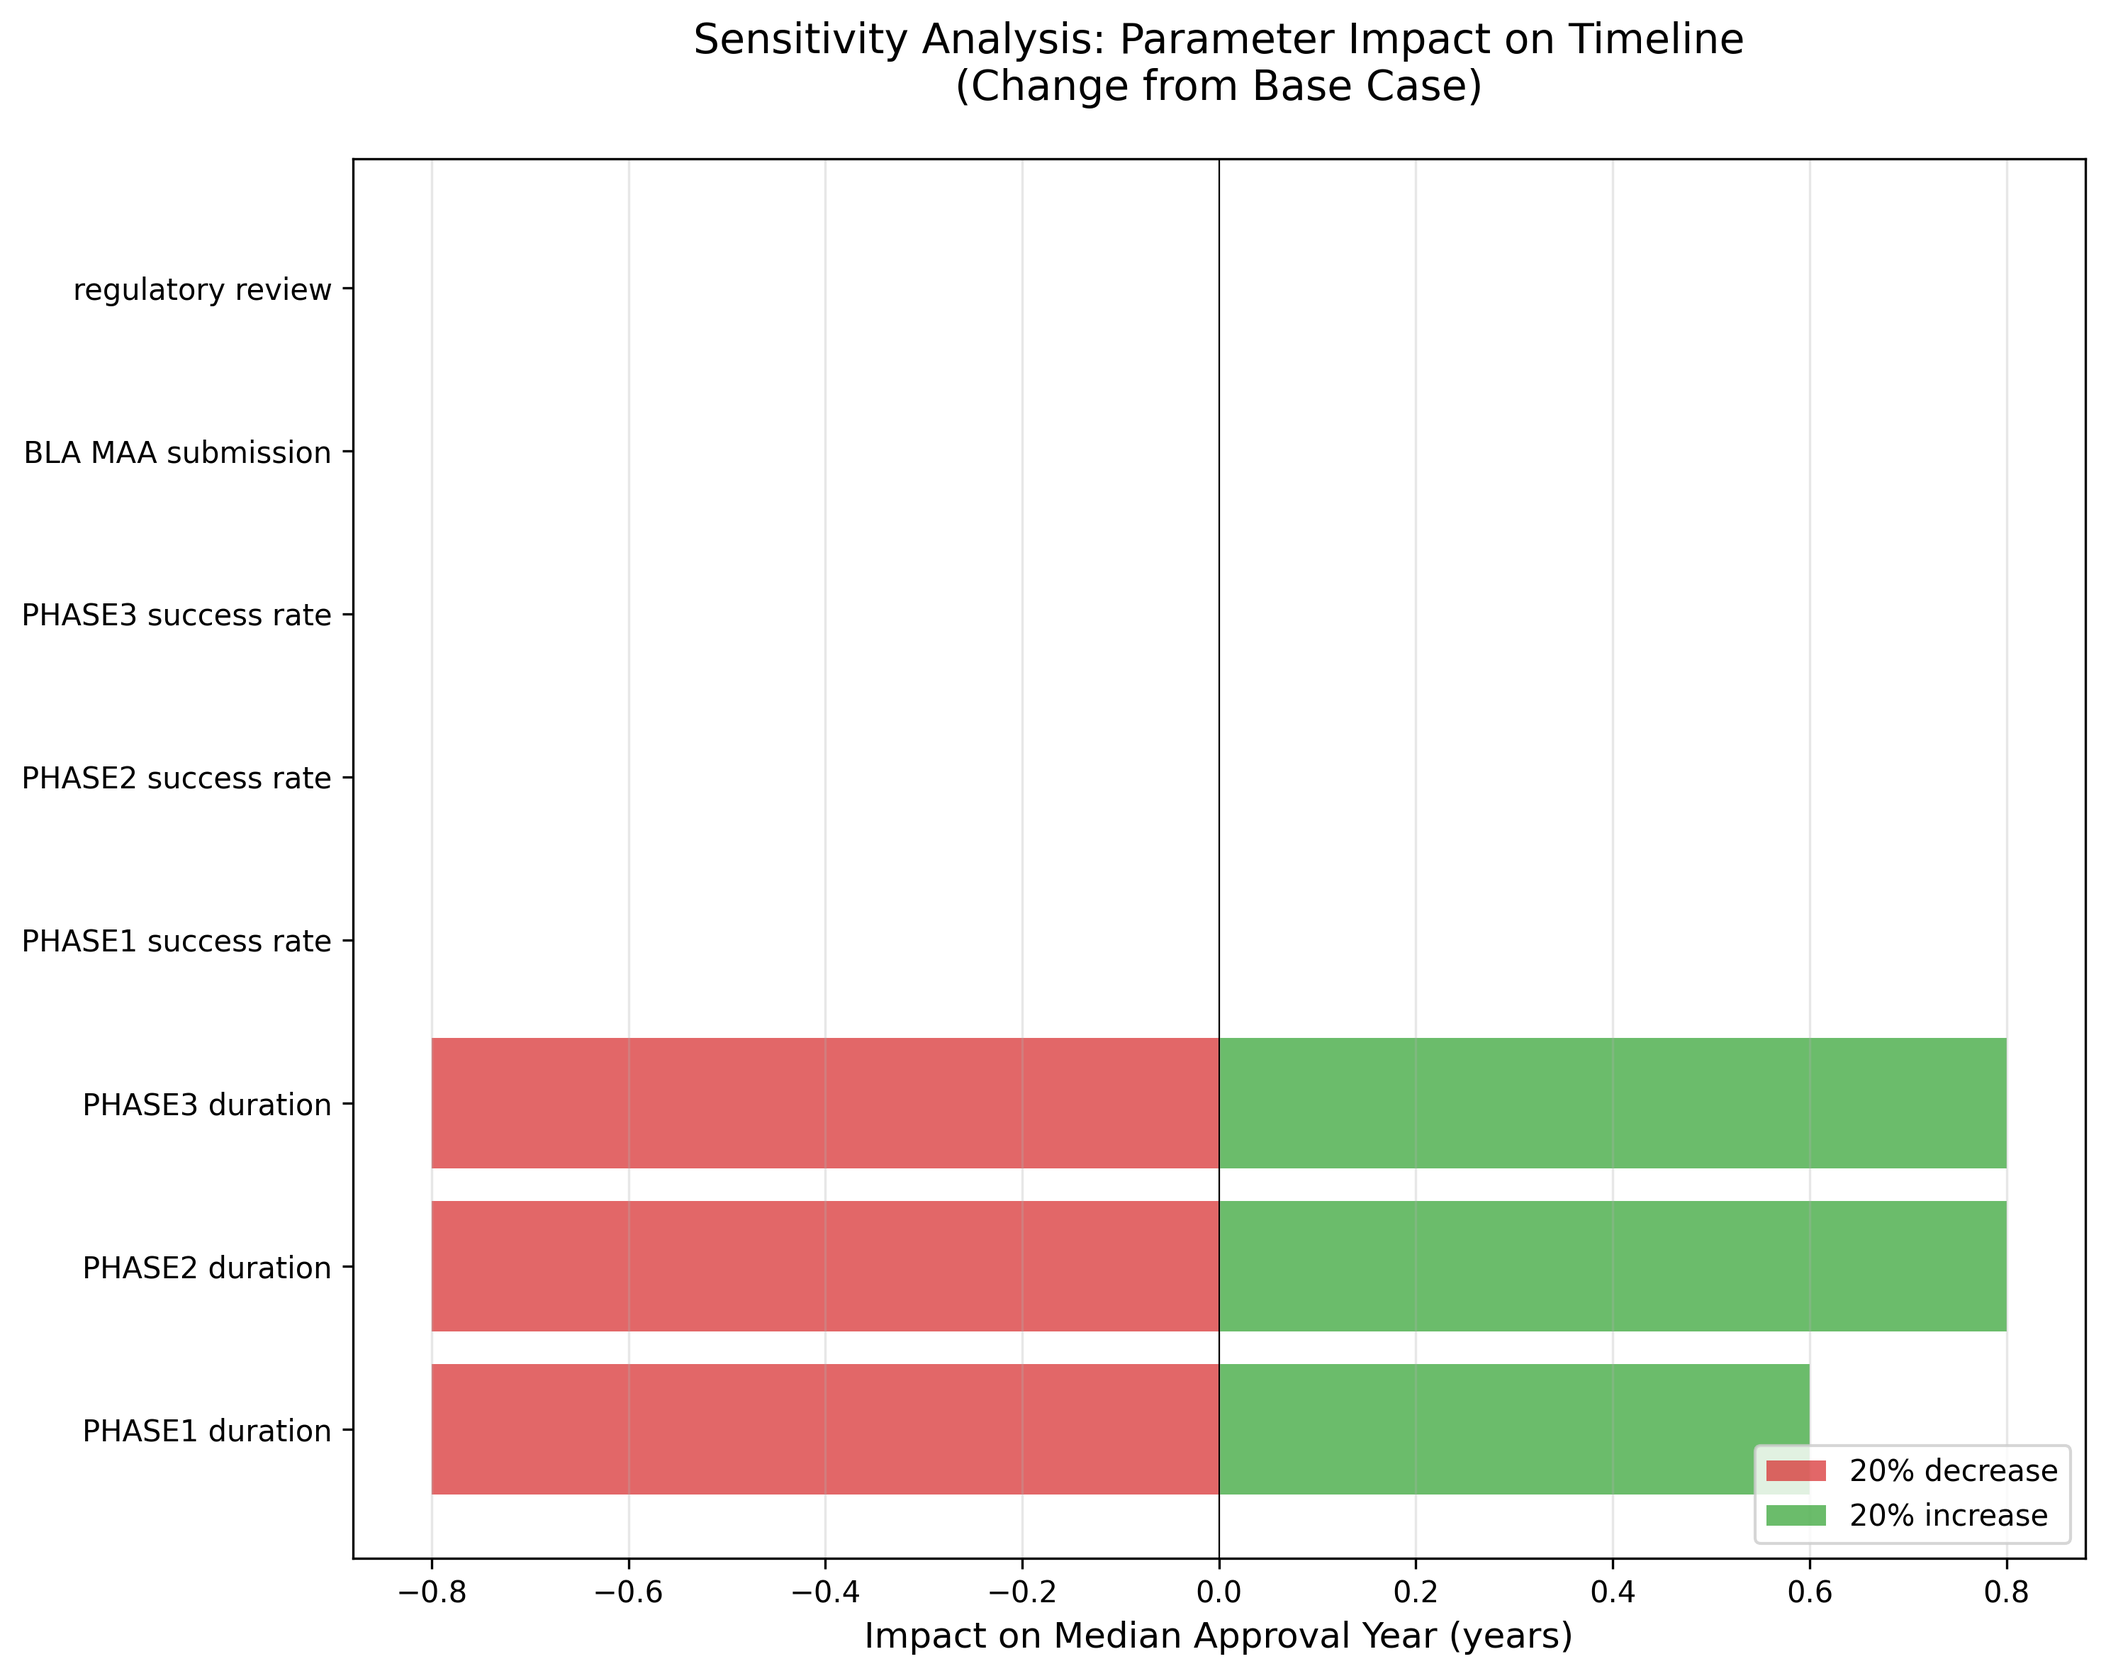
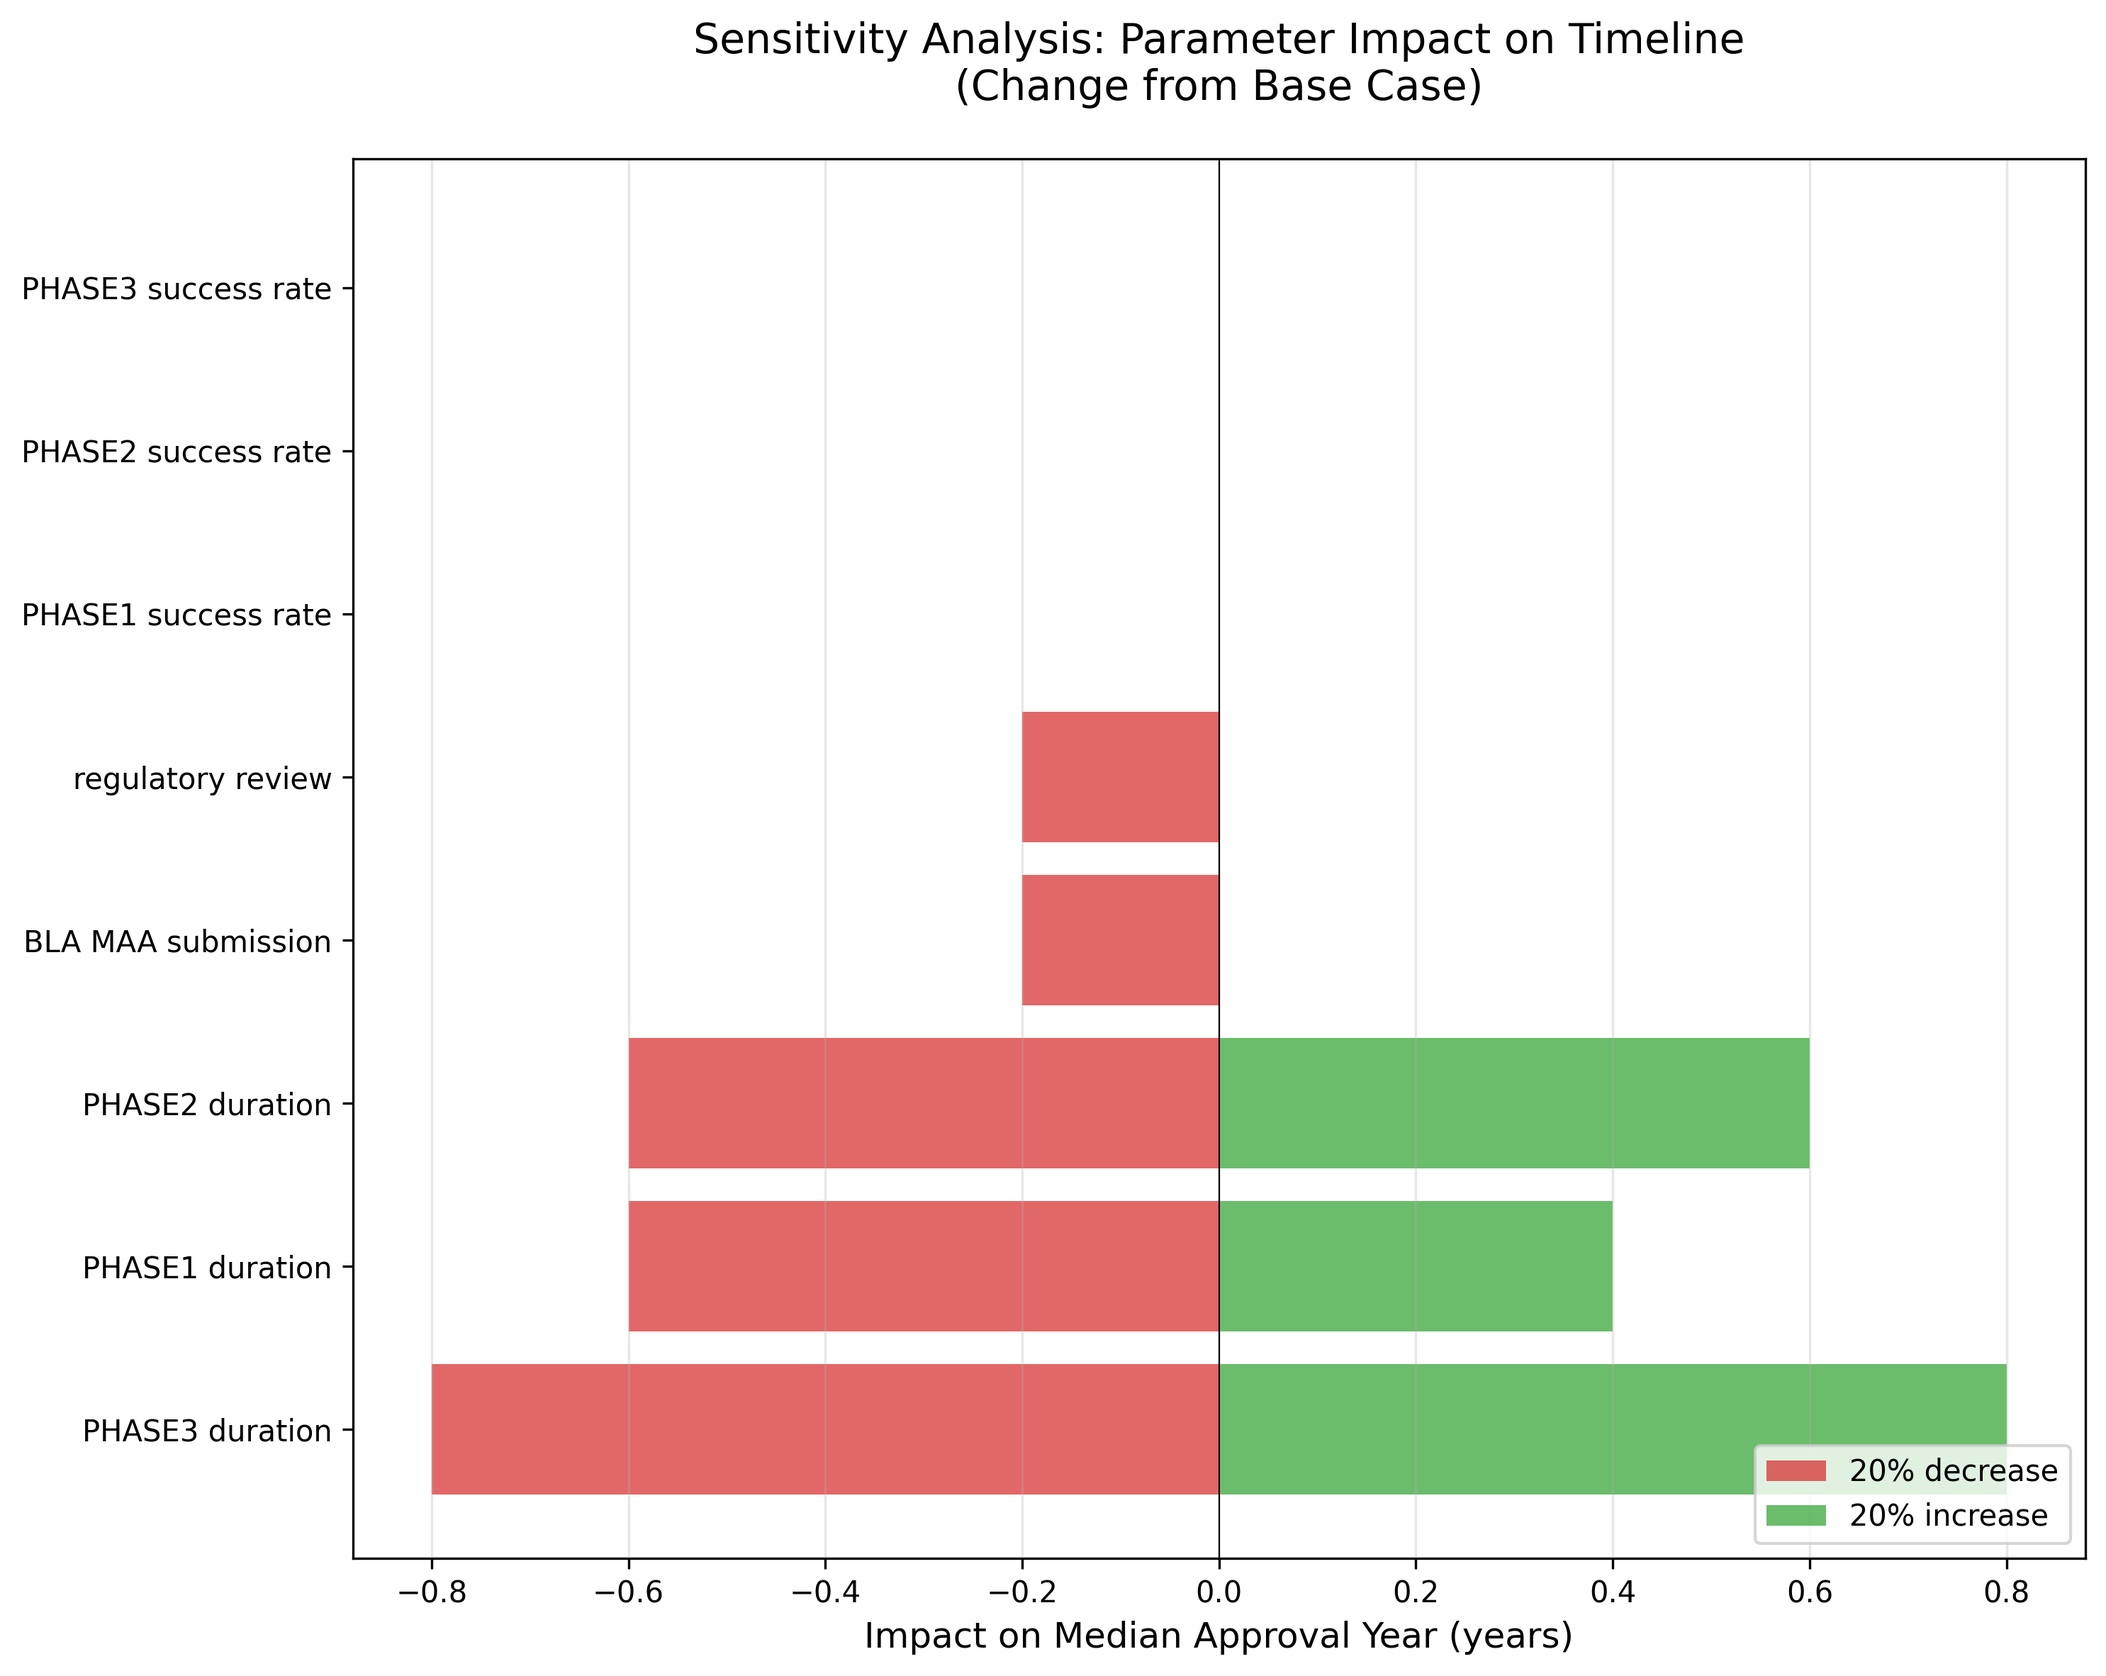
deploy: 7886f1104f4f142e22fffb07d784f7dc8c92304e

diff --git a/public/report.html b/public/report.html
@@ -189,7 +189,7 @@
         </nav>
         
         <h1>網膜色素変性症（RP）治療開発ロードマップ</h1>
-<p>生成日時: 2026年02月27日 03:41</p>
+<p>生成日時: 2026年02月27日 04:11</p>
 <h2>エグゼクティブサマリー</h2>
 <p>本レポートは、網膜色素変性症（Retinitis Pigmentosa, RP）の治療法開発状況を定量的に分析し、効果的な治療法がいつ頃利用可能になるかを予測したものです。</p>
 <h3>主要な発見（米国FDA承認基準）</h3>
@@ -273,6 +273,16 @@
 </thead>
 <tbody>
 <tr>
+<td>NCT04945772</td>
+<td data-label="治療法名">Efficacy and Safety of MCO-010 Optogenet...</td>
+<td data-label="フェーズ">PHASE2</td>
+<td data-label="スポンサー">Nanoscope Therapeutics Inc.</td>
+<td data-label="成功率">100.0%</td>
+<td data-label="FDA承認予測（中央値）">2026年</td>
+<td data-label="日本承認予測（中央値）">2029年</td>
+<td data-label="90%信頼区間（FDA）">[2026, 2027]</td>
+</tr>
+<tr>
 <td>NCT05203939</td>
 <td data-label="治療法名">Study to Assess the Safety and Efficacy ...</td>
 <td data-label="フェーズ">PHASE1, PHASE2</td>
@@ -293,11 +303,21 @@
 <td data-label="90%信頼区間（FDA）">[2027, 2027]</td>
 </tr>
 <tr>
+<td>NCT07174726</td>
+<td data-label="治療法名">A Phase 2 Open-label Study to Evaluate t...</td>
+<td data-label="フェーズ">PHASE2</td>
+<td data-label="スポンサー">Beacon Therapeutics</td>
+<td data-label="成功率">100.0%</td>
+<td data-label="FDA承認予測（中央値）">2030年</td>
+<td data-label="日本承認予測（中央値）">2035年</td>
+<td data-label="90%信頼区間（FDA）">[2029, 2030]</td>
+</tr>
+<tr>
 <td>NCT00999609</td>
 <td data-label="治療法名">Safety and Efficacy Study in Subjects Wi...</td>
 <td data-label="フェーズ">PHASE3</td>
 <td data-label="スポンサー">Spark Therapeutics, Inc.</td>
-<td data-label="成功率">72.4%</td>
+<td data-label="成功率">72.3%</td>
 <td data-label="FDA承認予測（中央値）">2030年</td>
 <td data-label="日本承認予測（中央値）">2035年</td>
 <td data-label="90%信頼区間（FDA）">[2029, 2031]</td>
@@ -313,41 +333,21 @@
 <td data-label="90%信頼区間（FDA）">[2029, 2030]</td>
 </tr>
 <tr>
-<td>NCT06275620</td>
-<td data-label="治療法名">A Study Comparing Two Doses of AGTC-501 ...</td>
-<td data-label="フェーズ">PHASE2</td>
-<td data-label="スポンサー">Beacon Therapeutics</td>
-<td data-label="成功率">100.0%</td>
-<td data-label="FDA承認予測（中央値）">2030年</td>
-<td data-label="日本承認予測（中央値）">2035年</td>
-<td data-label="90%信頼区間（FDA）">[2029, 2030]</td>
-</tr>
-<tr>
-<td>NCT06333249</td>
-<td data-label="治療法名">A Study Comparing Two Doses of AGTC-501 ...</td>
-<td data-label="フェーズ">PHASE2</td>
-<td data-label="スポンサー">Beacon Therapeutics</td>
-<td data-label="成功率">100.0%</td>
-<td data-label="FDA承認予測（中央値）">2030年</td>
-<td data-label="日本承認予測（中央値）">2035年</td>
-<td data-label="90%信頼区間（FDA）">[2029, 2030]</td>
+<td>NCT05537220</td>
+<td data-label="治療法名">Oral N-acetylcysteine for Retinitis Pigm...</td>
+<td data-label="フェーズ">PHASE3</td>
+<td data-label="スポンサー">Johns Hopkins University</td>
+<td data-label="成功率">71.3%</td>
+<td data-label="FDA承認予測（中央値）">2033年</td>
+<td data-label="日本承認予測（中央値）">2038年</td>
+<td data-label="90%信頼区間（FDA）">[2032, 2034]</td>
 </tr>
 <tr>
 <td>NCT07290530</td>
 <td data-label="治療法名">24-Month Trial of NPI-001 for the Preser...</td>
 <td data-label="フェーズ">PHASE3</td>
 <td data-label="スポンサー">Nacuity Pharmaceuticals, Inc.</td>
-<td data-label="成功率">71.6%</td>
-<td data-label="FDA承認予測（中央値）">2033年</td>
-<td data-label="日本承認予測（中央値）">2038年</td>
-<td data-label="90%信頼区間（FDA）">[2032, 2034]</td>
-</tr>
-<tr>
-<td>NCT05537220</td>
-<td data-label="治療法名">Oral N-acetylcysteine for Retinitis Pigm...</td>
-<td data-label="フェーズ">PHASE3</td>
-<td data-label="スポンサー">Johns Hopkins University</td>
-<td data-label="成功率">71.9%</td>
+<td data-label="成功率">71.8%</td>
 <td data-label="FDA承認予測（中央値）">2033年</td>
 <td data-label="日本承認予測（中央値）">2038年</td>
 <td data-label="90%信頼区間（FDA）">[2032, 2034]</td>
@@ -357,7 +357,7 @@
 <td data-label="治療法名">A Multicenter, Randomized, Double-Blind,...</td>
 <td data-label="フェーズ">PHASE3</td>
 <td data-label="スポンサー">Zhongshan Ophthalmic Center, Sun Yat-sen University</td>
-<td data-label="成功率">71.7%</td>
+<td data-label="成功率">71.9%</td>
 <td data-label="FDA承認予測（中央値）">2033年</td>
 <td data-label="日本承認予測（中央値）">2038年</td>
 <td data-label="90%信頼区間（FDA）">[2032, 2034]</td>
@@ -367,7 +367,7 @@
 <td data-label="治療法名">Long-term Safety and Efficacy Follow-up ...</td>
 <td data-label="フェーズ">PHASE3</td>
 <td data-label="スポンサー">NightstaRx Ltd, a Biogen Company</td>
-<td data-label="成功率">71.2%</td>
+<td data-label="成功率">72.3%</td>
 <td data-label="FDA承認予測（中央値）">2033年</td>
 <td data-label="日本承認予測（中央値）">2038年</td>
 <td data-label="90%信頼区間（FDA）">[2032, 2034]</td>
@@ -388,6 +388,13 @@
 </thead>
 <tbody>
 <tr>
+<td>NCT04945772</td>
+<td data-label="FDA承認予測">2026年</td>
+<td data-label="日本承認予測（中央値）"><strong>2029年</strong></td>
+<td data-label="日本承認90%信頼区間">[2028, 2029]</td>
+<td data-label="遅延期間（中央値）">+2.1年</td>
+</tr>
+<tr>
 <td>NCT05203939</td>
 <td data-label="FDA承認予測">2027年</td>
 <td data-label="日本承認予測（中央値）"><strong>2032年</strong></td>
@@ -399,6 +406,13 @@
 <td data-label="FDA承認予測">2027年</td>
 <td data-label="日本承認予測（中央値）"><strong>2032年</strong></td>
 <td data-label="日本承認90%信頼区間">[2031, 2033]</td>
+<td data-label="遅延期間（中央値）">+5.0年</td>
+</tr>
+<tr>
+<td>NCT07174726</td>
+<td data-label="FDA承認予測">2030年</td>
+<td data-label="日本承認予測（中央値）"><strong>2035年</strong></td>
+<td data-label="日本承認90%信頼区間">[2034, 2036]</td>
 <td data-label="遅延期間（中央値）">+5.0年</td>
 </tr>
 <tr>
@@ -416,28 +430,14 @@
 <td data-label="遅延期間（中央値）">+5.0年</td>
 </tr>
 <tr>
-<td>NCT06275620</td>
-<td data-label="FDA承認予測">2030年</td>
-<td data-label="日本承認予測（中央値）"><strong>2035年</strong></td>
-<td data-label="日本承認90%信頼区間">[2033, 2036]</td>
-<td data-label="遅延期間（中央値）">+5.0年</td>
-</tr>
-<tr>
-<td>NCT06333249</td>
-<td data-label="FDA承認予測">2030年</td>
-<td data-label="日本承認予測（中央値）"><strong>2035年</strong></td>
-<td data-label="日本承認90%信頼区間">[2034, 2036]</td>
-<td data-label="遅延期間（中央値）">+5.0年</td>
-</tr>
-<tr>
-<td>NCT07290530</td>
+<td>NCT05537220</td>
 <td data-label="FDA承認予測">2033年</td>
 <td data-label="日本承認予測（中央値）"><strong>2038年</strong></td>
 <td data-label="日本承認90%信頼区間">[2036, 2039]</td>
 <td data-label="遅延期間（中央値）">+5.0年</td>
 </tr>
 <tr>
-<td>NCT05537220</td>
+<td>NCT07290530</td>
 <td data-label="FDA承認予測">2033年</td>
 <td data-label="日本承認予測（中央値）"><strong>2038年</strong></td>
 <td data-label="日本承認90%信頼区間">[2036, 2039]</td>
@@ -484,9 +484,9 @@
 <p><img alt="トルネード図" src="images/tornado.png"/></p>
 <h3>主要な影響要因</h3>
 <ul>
-<li><strong>PHASE2 duration</strong> (increase 20%): +0.8年の影響</li>
 <li><strong>PHASE3 duration</strong> (increase 20%): +0.8年の影響</li>
-<li><strong>PHASE1 duration</strong> (increase 20%): +0.6年の影響</li>
+<li><strong>PHASE2 duration</strong> (increase 20%): +0.6年の影響</li>
+<li><strong>PHASE1 duration</strong> (increase 20%): +0.4年の影響</li>
 </ul>
 <h2>4. 予測の可視化</h2>
 <h3>累積承認確率</h3>

diff --git a/content/main/index.md b/content/main/index.md
@@ -1,6 +1,6 @@
 # 網膜色素変性症（RP）治療開発ロードマップ
 
-生成日時: 2026年02月27日 03:41
+生成日時: 2026年02月27日 04:11
 
 ## エグゼクティブサマリー
 
@@ -54,16 +54,16 @@
 
 | 試験ID | 治療法名 | フェーズ | スポンサー | 成功率 | FDA承認予測（中央値） | 日本承認予測（中央値） | 90%信頼区間（FDA） |
 |--------|----------|----------|------------|--------|---------------------|---------------------|------------------|
+| NCT04945772 | Efficacy and Safety of MCO-010 Optogenet... | PHASE2 | Nanoscope Therapeutics Inc. | 100.0% | 2026年 | 2029年 | [2026, 2027] |
 | NCT05203939 | Study to Assess the Safety and Efficacy ... | PHASE1, PHASE2 | Ocugen | 100.0% | 2027年 | 2032年 | [2027, 2027] |
 | NCT06388200 | A Phase 3 Study Of OCU400 Gene Therapy f... | PHASE3 | Ocugen | 100.0% | 2027年 | 2032年 | [2027, 2027] |
-| NCT00999609 | Safety and Efficacy Study in Subjects Wi... | PHASE3 | Spark Therapeutics, Inc. | 72.4% | 2030年 | 2035年 | [2029, 2031] |
+| NCT07174726 | A Phase 2 Open-label Study to Evaluate t... | PHASE2 | Beacon Therapeutics | 100.0% | 2030年 | 2035年 | [2029, 2030] |
+| NCT00999609 | Safety and Efficacy Study in Subjects Wi... | PHASE3 | Spark Therapeutics, Inc. | 72.3% | 2030年 | 2035年 | [2029, 2031] |
 | NCT04850118 | A Clinical Trial Evaluating the Safety a... | PHASE2, PHASE3 | Beacon Therapeutics | 100.0% | 2030年 | 2035年 | [2029, 2030] |
-| NCT06275620 | A Study Comparing Two Doses of AGTC-501 ... | PHASE2 | Beacon Therapeutics | 100.0% | 2030年 | 2035年 | [2029, 2030] |
-| NCT06333249 | A Study Comparing Two Doses of AGTC-501 ... | PHASE2 | Beacon Therapeutics | 100.0% | 2030年 | 2035年 | [2029, 2030] |
-| NCT07290530 | 24-Month Trial of NPI-001 for the Preser... | PHASE3 | Nacuity Pharmaceuticals, Inc. | 71.6% | 2033年 | 2038年 | [2032, 2034] |
-| NCT05537220 | Oral N-acetylcysteine for Retinitis Pigm... | PHASE3 | Johns Hopkins University | 71.9% | 2033年 | 2038年 | [2032, 2034] |
-| NCT07082855 | A Multicenter, Randomized, Double-Blind,... | PHASE3 | Zhongshan Ophthalmic Center, Sun Yat-sen University | 71.7% | 2033年 | 2038年 | [2032, 2034] |
-| NCT03584165 | Long-term Safety and Efficacy Follow-up ... | PHASE3 | NightstaRx Ltd, a Biogen Company | 71.2% | 2033年 | 2038年 | [2032, 2034] |
+| NCT05537220 | Oral N-acetylcysteine for Retinitis Pigm... | PHASE3 | Johns Hopkins University | 71.3% | 2033年 | 2038年 | [2032, 2034] |
+| NCT07290530 | 24-Month Trial of NPI-001 for the Preser... | PHASE3 | Nacuity Pharmaceuticals, Inc. | 71.8% | 2033年 | 2038年 | [2032, 2034] |
+| NCT07082855 | A Multicenter, Randomized, Double-Blind,... | PHASE3 | Zhongshan Ophthalmic Center, Sun Yat-sen University | 71.9% | 2033年 | 2038年 | [2032, 2034] |
+| NCT03584165 | Long-term Safety and Efficacy Follow-up ... | PHASE3 | NightstaRx Ltd, a Biogen Company | 72.3% | 2033年 | 2038年 | [2032, 2034] |
 
 
 ### 日本での承認予測
@@ -72,14 +72,14 @@
 
 | 治療法 | FDA承認予測 | 日本承認予測（中央値） | 日本承認90%信頼区間 | 遅延期間（中央値） |
 |--------|------------|---------------------|-------------------|---------------------|
+| NCT04945772 | 2026年 | **2029年** | [2028, 2029] | +2.1年 |
 | NCT05203939 | 2027年 | **2032年** | [2031, 2033] | +5.0年 |
 | NCT06388200 | 2027年 | **2032年** | [2031, 2033] | +5.0年 |
+| NCT07174726 | 2030年 | **2035年** | [2034, 2036] | +5.0年 |
 | NCT00999609 | 2030年 | **2035年** | [2034, 2036] | +5.0年 |
 | NCT04850118 | 2030年 | **2035年** | [2034, 2036] | +5.0年 |
-| NCT06275620 | 2030年 | **2035年** | [2033, 2036] | +5.0年 |
-| NCT06333249 | 2030年 | **2035年** | [2034, 2036] | +5.0年 |
-| NCT07290530 | 2033年 | **2038年** | [2036, 2039] | +5.0年 |
 | NCT05537220 | 2033年 | **2038年** | [2036, 2039] | +5.0年 |
+| NCT07290530 | 2033年 | **2038年** | [2036, 2039] | +5.0年 |
 | NCT07082855 | 2033年 | **2038年** | [2036, 2039] | +5.0年 |
 | NCT03584165 | 2033年 | **2038年** | [2036, 2039] | +5.0年 |
 
@@ -110,9 +110,9 @@
 ![トルネード図](images/tornado.png)
 
 ### 主要な影響要因
-- **PHASE2 duration** (increase 20%): +0.8年の影響
 - **PHASE3 duration** (increase 20%): +0.8年の影響
-- **PHASE1 duration** (increase 20%): +0.6年の影響
+- **PHASE2 duration** (increase 20%): +0.6年の影響
+- **PHASE1 duration** (increase 20%): +0.4年の影響
 
 
 ## 4. 予測の可視化
